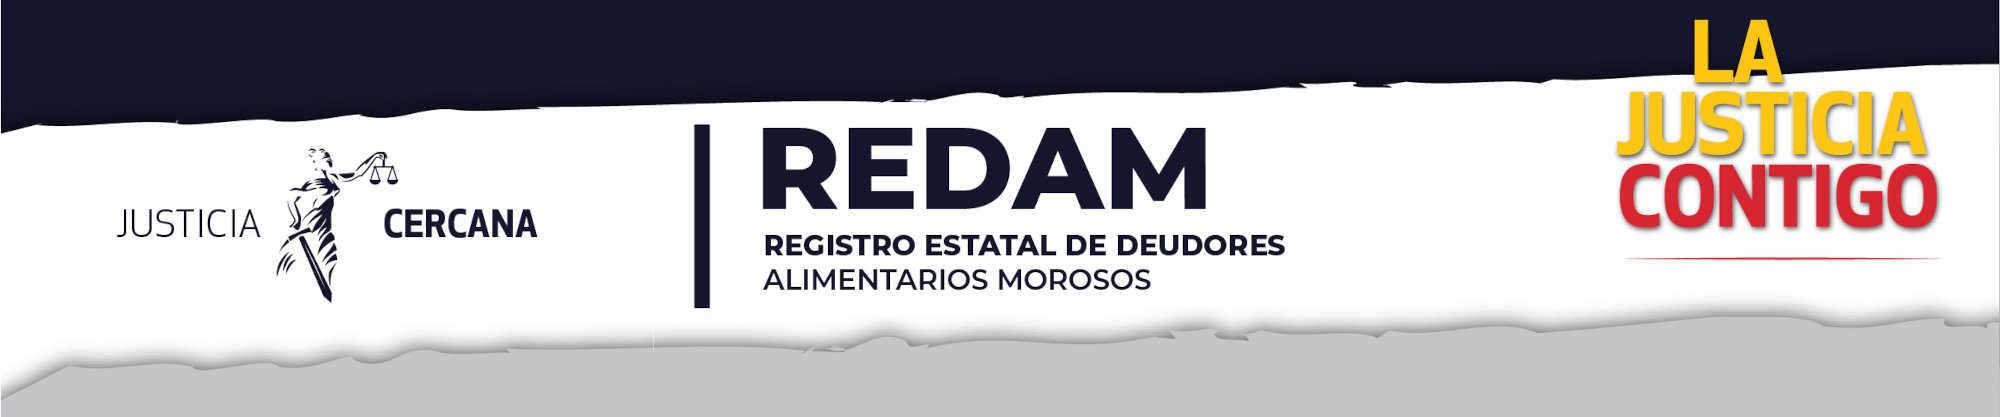
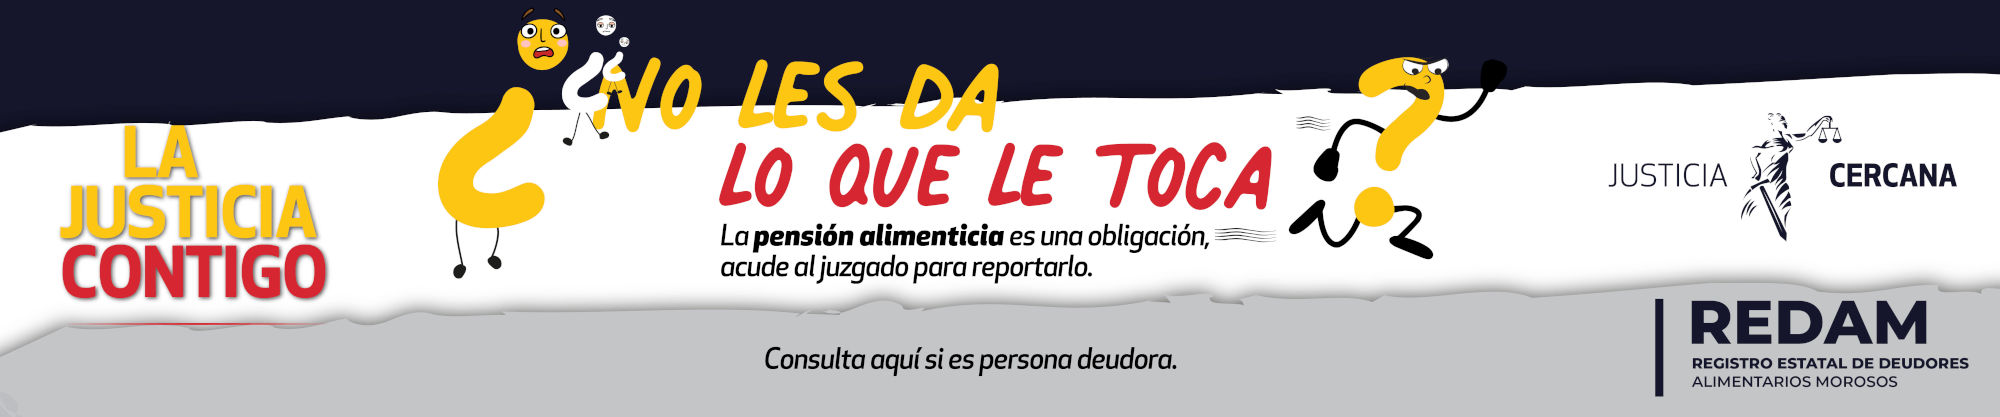
Imagen de encabezado en REDAM

diff --git a/content/consultas/redam/redam.md b/content/consultas/redam/redam.md
@@ -7,6 +7,8 @@ Modified: 2022-06-08 12:50
 JavaScripts: consultas-redam.js
 
 
+<img class="img-fluid" src="encabezado.jpg" alt="REDAM">
+
 ### ¿Qué es el Registro Estatal de Deudores Alimentarios Morosos?
 
 De acuerdo al **Artículo 308** de la **Ley de Familia** el **Poder Judicial** tendrá a su cargo la creación y manejo del **Registro Estatal de Deudores Alimentarios Morosos,** en el que se inscribirá a las personas que hayan dejado de cumplir sus obligaciones alimentarias de manera consecutiva o intermitentemente, ya sea en tres ocasiones en un periodo de tres meses, o, para el caso de las pensiones alimenticias que se deban cumplir de manera mensual, en tres ocasiones en un periodo de seis meses, decretadas por la autoridad judicial correspondiente.
